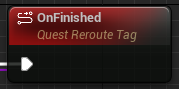
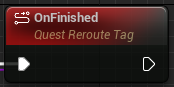
Reroute节点添加Then引脚

diff --git a/Source/GameQuestGraphEditor/Private/BPNode_GameQuestRerouteTag.cpp b/Source/GameQuestGraphEditor/Private/BPNode_GameQuestRerouteTag.cpp
@@ -127,6 +127,7 @@ void UBPNode_GameQuestRerouteTag::AllocateDefaultPins()
 	Super::AllocateDefaultPins();
 
 	CreatePin(EGPD_Input, UEdGraphSchema_K2::PC_Exec, UEdGraphSchema_K2::PN_Execute);
+	CreatePin(EGPD_Output, UEdGraphSchema_K2::PC_Exec, UEdGraphSchema_K2::PN_Then);
 }
 
 void UBPNode_GameQuestRerouteTag::ExpandNode(FKismetCompilerContext& CompilerContext, UEdGraph* SourceGraph)
@@ -152,6 +153,7 @@ void UBPNode_GameQuestRerouteTag::ExpandNode(FKismetCompilerContext& CompilerCon
 	CallTryActivateNode->FindPinChecked(TEXT("RerouteTag"))->MakeLinkTo(GetStructNode->FindPinChecked(RerouteTagName));
 
 	CompilerContext.MovePinLinksToIntermediate(*GetExecPin(), *CallTryActivateNode->GetExecPin());
+	CompilerContext.MovePinLinksToIntermediate(*GetThenPin(), *CallTryActivateNode->GetThenPin());
 }
 
 #undef LOCTEXT_NAMESPACE
